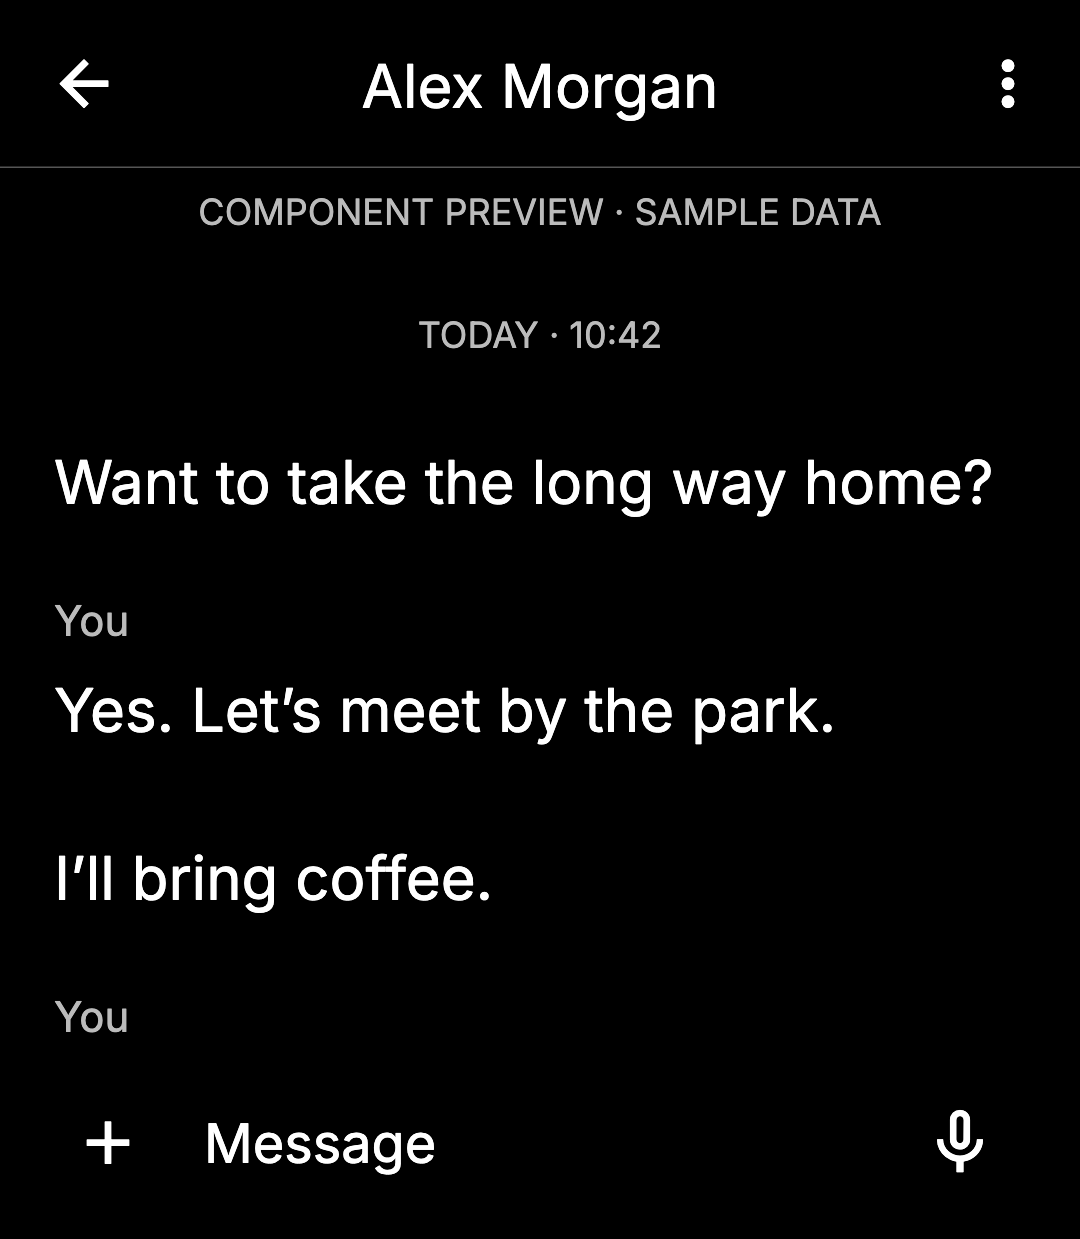
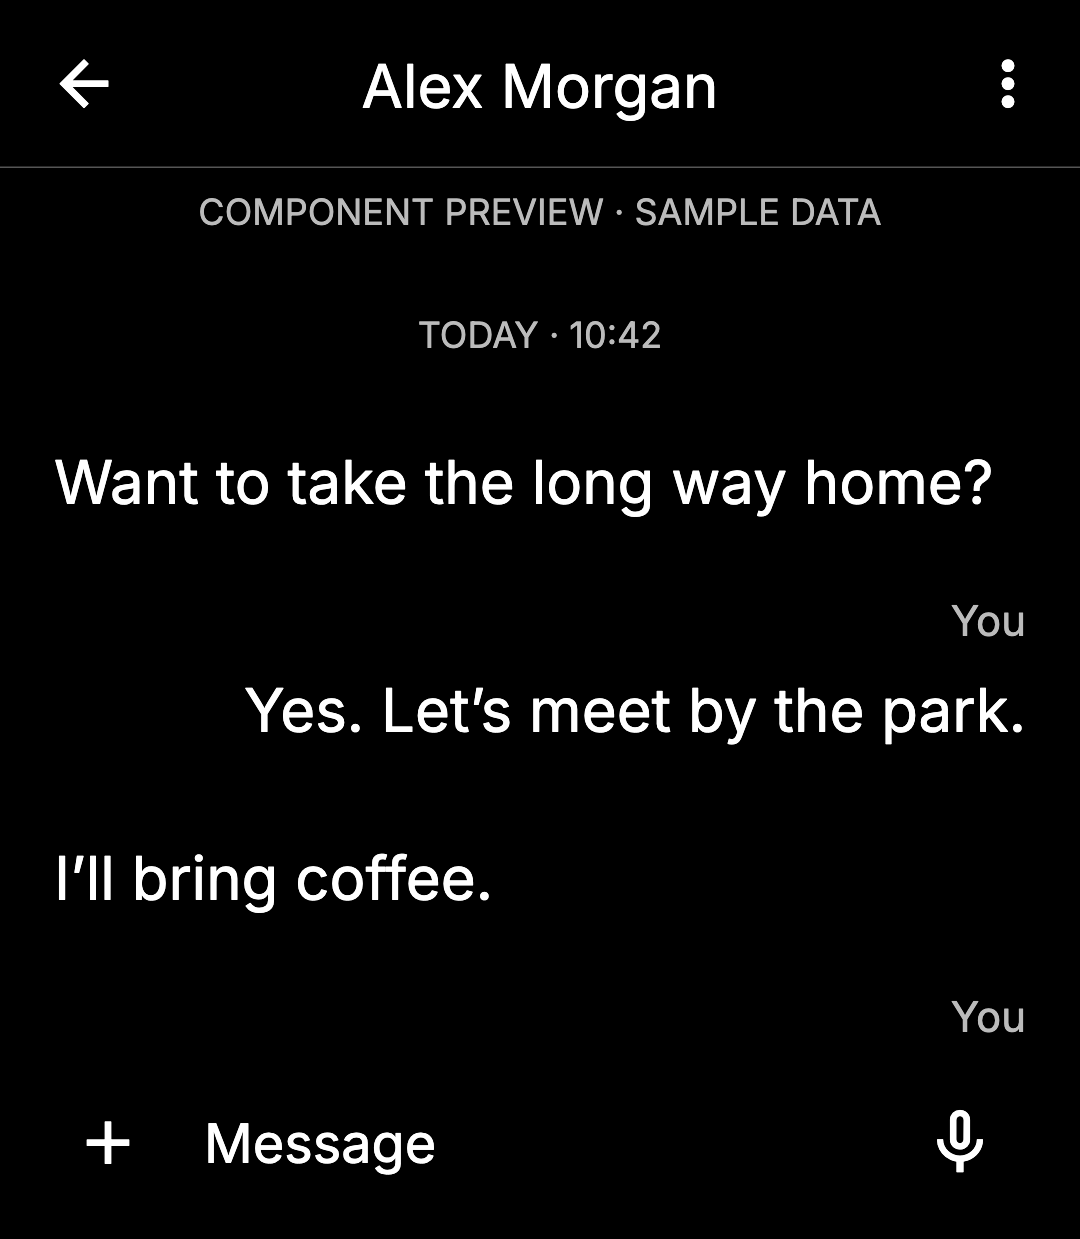
Right-align outgoing Light messages and captions

diff --git a/lib/app/layouts/conversation_view/widgets/message/message_holder.dart b/lib/app/layouts/conversation_view/widgets/message/message_holder.dart
@@ -229,14 +229,14 @@ class _MessageHolderState extends CustomState<MessageHolder, void, MessageWidget
               Expanded(
                 child: Column(
                   mainAxisSize: MainAxisSize.min,
-                  crossAxisAlignment: !isLight && message.isFromMe! ? CrossAxisAlignment.end : CrossAxisAlignment.start,
+                  crossAxisAlignment: message.isFromMe! ? CrossAxisAlignment.end : CrossAxisAlignment.start,
                   children: [
                     // message column
                     ...messageParts.mapIndexed((index, e) => Padding(
                       padding: const EdgeInsets.symmetric(vertical: 2.0),
                       child: Column(
                         mainAxisSize: MainAxisSize.min,
-                        crossAxisAlignment: !isLight && message.isFromMe! ? CrossAxisAlignment.end : CrossAxisAlignment.start,
+                        crossAxisAlignment: message.isFromMe! ? CrossAxisAlignment.end : CrossAxisAlignment.start,
                         children: [
                           // add previous edits if needed
                           if (e.isEdited)
@@ -250,7 +250,7 @@ class _MessageHolderState extends CustomState<MessageHolder, void, MessageWidget
                                 child: controller.showEdits.value ? Opacity(
                                   opacity: 0.75,
                                   child: Column(
-                                    crossAxisAlignment: !isLight && message.isFromMe! ? CrossAxisAlignment.end : CrossAxisAlignment.start,
+                                    crossAxisAlignment: message.isFromMe! ? CrossAxisAlignment.end : CrossAxisAlignment.start,
                                     mainAxisSize: MainAxisSize.min,
                                     children: e.edits.map((edit) => ClipPath(
                                       clipper: TailClipper(
@@ -313,7 +313,7 @@ class _MessageHolderState extends CustomState<MessageHolder, void, MessageWidget
                               child: MessageSender(olderMessage: olderMessage, message: message),
                             ),
                           // Plain messages give reactions their own row, so
-                          // badges cannot overlap text or escape the left gutter.
+                          // badges cannot overlap text or escape the gutters.
                           if ((messageParts.length == 1 && reactions.isNotEmpty) || reactionsForPart(e.part).isNotEmpty)
                             isLight
                                 ? Padding(
@@ -347,12 +347,15 @@ class _MessageHolderState extends CustomState<MessageHolder, void, MessageWidget
                                   ? const EdgeInsets.only(left: 45.0, right: 10) : const EdgeInsets.symmetric(horizontal: 10),
                               child: DecoratedBox(
                                 decoration: isLight
-                                    ? BoxDecoration(border: Border(left: BorderSide(color: context.theme.colorScheme.outlineVariant)))
+                                    ? BoxDecoration(border: message.isFromMe!
+                                        ? Border(right: BorderSide(color: context.theme.colorScheme.outlineVariant))
+                                        : Border(left: BorderSide(color: context.theme.colorScheme.outlineVariant)))
                                     : BoxDecoration(
                                         borderRadius: BorderRadius.circular(25),
                                         border: Border.fromBorderSide(BorderSide(color: context.theme.colorScheme.properSurface)),
                                       ),
                                 child: ReplyBubble(
+                                  textAlign: isLight ? (message.isFromMe! ? TextAlign.right : TextAlign.left) : TextAlign.start,
                                   parentController: getActiveMwc(replyTo!.guid!)!,
                                   part: replyTo!.guid! == message.threadOriginatorGuid ? message.normalizedThreadPart : 0,
                                   showAvatar: (chat.isGroup || (ss.settings.skin.value != Skins.Light && ss.settings.alwaysShowAvatars.value) || !iOS)
@@ -404,7 +407,7 @@ class _MessageHolderState extends CustomState<MessageHolder, void, MessageWidget
                                       ignoring: widget.cvController.inSelectMode.value,
                                       child: Container(
                                         width: double.infinity,
-                                        alignment: !isLight && message.isFromMe! ? Alignment.centerRight : Alignment.centerLeft,
+                                        alignment: message.isFromMe! ? Alignment.centerRight : Alignment.centerLeft,
                                         child: Row(
                                           mainAxisSize: MainAxisSize.min,
                                           children: [
@@ -424,7 +427,7 @@ class _MessageHolderState extends CustomState<MessageHolder, void, MessageWidget
                                             // otherwise show content
                                             if (!message.isGroupEvent && !e.isUnsent)
                                               lightMessageContent(Column(
-                                                crossAxisAlignment: !isLight && message.isFromMe! ? CrossAxisAlignment.end : CrossAxisAlignment.start,
+                                                crossAxisAlignment: message.isFromMe! ? CrossAxisAlignment.end : CrossAxisAlignment.start,
                                                 children: [
                                                   // interactive messages may have subjects, so render them here
                                                   // also render the subject for attachments that may have not rendered already
@@ -572,6 +575,7 @@ class _MessageHolderState extends CustomState<MessageHolder, void, MessageWidget
                                                                               child: CallbackShortcuts(
                                                                                 bindings: editStuff.item3.getShortcuts(),
                                                                                 child: TextField(
+                                                                                textAlign: isLight ? TextAlign.right : TextAlign.start,
                                                                                 textCapitalization: TextCapitalization.sentences,
                                                                                 autocorrect: true,
                                                                                 controller: editStuff.item3,

diff --git a/tool/light_preview/test/demo_voice_test.dart b/tool/light_preview/test/demo_voice_test.dart
@@ -2,9 +2,11 @@ import 'dart:async';
 import 'dart:typed_data';
 
 import 'package:flutter/material.dart';
+import 'package:flutter/rendering.dart';
 import 'package:flutter_test/flutter_test.dart';
 
 import '../../../lib/app/components/light/light_message_sender.dart';
+import '../../../lib/app/components/light/light_message_surface.dart';
 import '../../../lib/app/components/light/light_voice_note_controls.dart';
 import '../demo_app.dart';
 import '../voice/voice_capture.dart';
@@ -103,6 +105,11 @@ void main() {
     await tester.pumpAndSettle();
     expect(find.byTooltip('Record voice note'), findsOneWidget);
     expect(find.text('Voice note · 00:03'), findsOneWidget);
+    final voiceSurface = find.ancestor(
+        of: find.text('Voice note · 00:03'),
+        matching: find.byType(LightMessageSurface));
+    expect(tester.getRect(voiceSurface).right, closeTo(342, 0.01));
+    expect(tester.getRect(find.text('You').last).right, closeTo(342, 0.01));
     await tester.tap(find.byTooltip('Play voice note'));
     await tester.pumpAndSettle();
     expect(capture.plays, 2);
@@ -151,7 +158,7 @@ void main() {
   });
 
   testWidgets(
-      'group sender captions are separate and all message bodies align left',
+      'group sender captions stay with incoming left and sent right messages',
       (tester) async {
     tester.view.physicalSize = const Size(360, 800);
     tester.view.devicePixelRatio = 1;
@@ -165,12 +172,63 @@ void main() {
       final caption = tester.widget<Text>(find.text(name));
       expect(caption.style!.fontSize, 14);
     }
-    final incomingX = tester.getTopLeft(find.text('I can bring coffee.')).dx;
-    expect(tester.getTopLeft(find.text('I’ll bring the cups.')).dx, incomingX);
-    expect(tester.getTopLeft(find.text('See you both at nine.')).dx, incomingX);
+    expect(tester.getRect(find.text('I can bring coffee.')).left,
+        closeTo(18, 0.01));
+    expect(tester.getRect(find.text('I’ll bring the cups.')).left,
+        closeTo(18, 0.01));
+    expect(tester.getRect(find.text('Jamie')).left, closeTo(18, 0.01));
+    expect(tester.getRect(find.text('Morgan')).left, closeTo(18, 0.01));
+    expect(tester.getRect(find.text('See you both at nine.')).right,
+        closeTo(342, 0.01));
+    expect(tester.getRect(find.text('You')).right, closeTo(342, 0.01));
     expect(find.text('Jamie: I can bring coffee.'), findsNothing);
     expect(tester.takeException(), isNull);
   });
+
+  for (final thread in ['Alex Morgan', 'Saturday walk']) {
+    for (final scale in [1.0, 1.6]) {
+      testWidgets(
+          '$thread newly sent wrapped text and You caption align right at ${scale}x',
+          (tester) async {
+        tester.view.physicalSize = const Size(360, 800);
+        tester.view.devicePixelRatio = 1;
+        tester.platformDispatcher.textScaleFactorTestValue = scale;
+        addTearDown(tester.view.resetPhysicalSize);
+        addTearDown(tester.view.resetDevicePixelRatio);
+        addTearDown(tester.platformDispatcher.clearTextScaleFactorTestValue);
+        await tester.pumpWidget(LightDemoApp(voiceCapture: FakeVoiceCapture()));
+        await tester.tap(find.text(thread));
+        await tester.pumpAndSettle();
+        final incoming = thread == 'Alex Morgan'
+            ? 'Meet you at the trailhead.'
+            : 'I’ll bring the cups.';
+        expect(tester.getRect(find.text(incoming)).left, closeTo(18, 0.01));
+        const message =
+            'I will meet you by the park after work and bring the map for our walk. See you soon.';
+        await tester.enterText(
+            find.byKey(const ValueKey('demo-draft')), message);
+        await tester.pump();
+        await tester.tap(find.text('SEND'));
+        await tester.pumpAndSettle();
+        final paragraph =
+            tester.renderObject<RenderParagraph>(find.text(message));
+        final lines = paragraph.getBoxesForSelection(
+            const TextSelection(baseOffset: 0, extentOffset: message.length));
+        expect(lines.length, greaterThan(1));
+        expect(paragraph.textAlign, TextAlign.right);
+        expect(tester.getRect(find.text(message)).right, closeTo(342, 0.01));
+        expect(
+            paragraph
+                .localToGlobal(Offset(lines.last.right, lines.last.bottom))
+                .dx,
+            closeTo(342, 0.01));
+        expect(tester.getRect(find.text('You').last).right, closeTo(342, 0.01));
+        expect(tester.getBottomLeft(find.text('You').last).dy,
+            lessThan(tester.getTopLeft(find.text(message)).dy));
+        expect(tester.takeException(), isNull);
+      });
+    }
+  }
 
   testWidgets(
       'native Light voice controls retain compact reachable callbacks at 1.6x',

diff --git a/tool/light_preview/test/light_components_test.dart b/tool/light_preview/test/light_components_test.dart
@@ -160,7 +160,8 @@ void main() {
           await tester.pumpAndSettle();
           expect(tester.takeException(), isNull);
           expect(find.text('Message'), findsOneWidget);
-          expect(find.byTooltip('Record voice note').hitTestable(), findsOneWidget);
+          expect(find.byTooltip('Record voice note').hitTestable(),
+              findsOneWidget);
           await tester.scrollUntilVisible(find.text('Delivered'), 160);
           await tester.pumpAndSettle();
           expect(find.text('Delivered').hitTestable(), findsOneWidget);
@@ -221,7 +222,7 @@ void main() {
             LightMessageSender(name: 'Jamie'),
             LightMessageSurface(
                 isFromMe: false, child: Text('I can bring coffee.')),
-            LightMessageSender(name: 'You'),
+            LightMessageSender(name: 'You', isFromMe: true),
             LightMessageSurface(isFromMe: true, child: Text('See you soon.')),
           ]),
         ),
@@ -233,8 +234,16 @@ void main() {
       expect(caption.fontSize, lessThan(body.fontSize!));
       expect(tester.getBottomLeft(find.text('Jamie')).dy,
           lessThan(tester.getTopLeft(find.text('I can bring coffee.')).dy));
-      expect(tester.getTopLeft(find.text('I can bring coffee.')).dx,
-          tester.getTopLeft(find.text('See you soon.')).dx);
+      expect(tester.getBottomLeft(find.text('You')).dy,
+          lessThan(tester.getTopLeft(find.text('See you soon.')).dy));
+      expect(
+          DefaultTextStyle.of(tester.element(find.text('I can bring coffee.')))
+              .textAlign,
+          TextAlign.left);
+      expect(
+          DefaultTextStyle.of(tester.element(find.text('See you soon.')))
+              .textAlign,
+          TextAlign.right);
       expect(
           contrast(
               caption.color!,

diff --git a/tool/light_preview/demo_app.dart b/tool/light_preview/demo_app.dart
@@ -534,15 +534,19 @@ class _DemoHomeState extends State<_DemoHome> {
                                         padding:
                                             const EdgeInsets.only(bottom: 18),
                                         child: Align(
-                                          alignment: Alignment.centerLeft,
+                                          alignment: message.fromMe
+                                              ? Alignment.centerRight
+                                              : Alignment.centerLeft,
                                           child: Column(
                                             mainAxisSize: MainAxisSize.min,
-                                            crossAxisAlignment:
-                                                CrossAxisAlignment.start,
+                                            crossAxisAlignment: message.fromMe
+                                                ? CrossAxisAlignment.end
+                                                : CrossAxisAlignment.start,
                                             children: [
                                               if (thread.isGroup ||
                                                   message.fromMe)
                                                 LightMessageSender(
+                                                    isFromMe: message.fromMe,
                                                     name: message.fromMe
                                                         ? 'You'
                                                         : message.sender ??

diff --git a/tool/light_preview/test/preview_app.dart b/tool/light_preview/test/preview_app.dart
@@ -145,13 +145,15 @@ class _FixtureConversation extends StatelessWidget {
   @override
   Widget build(BuildContext context) {
     Widget message(String text, {required bool fromMe}) => Align(
-          alignment: Alignment.centerLeft,
+          alignment: fromMe ? Alignment.centerRight : Alignment.centerLeft,
           child: Padding(
             padding: const EdgeInsets.only(bottom: 18),
             child: Column(
-              crossAxisAlignment: CrossAxisAlignment.start,
+              crossAxisAlignment:
+                  fromMe ? CrossAxisAlignment.end : CrossAxisAlignment.start,
               children: [
-                if (fromMe) const LightMessageSender(name: 'You'),
+                if (fromMe)
+                  const LightMessageSender(name: 'You', isFromMe: true),
                 LightMessageSurface(
                   isFromMe: fromMe,
                   constraints: const BoxConstraints(maxWidth: 324),
@@ -200,7 +202,7 @@ class _FixtureConversation extends StatelessWidget {
                 message('I’ll bring coffee.', fromMe: false),
                 message('Perfect. See you soon.', fromMe: true),
                 Align(
-                  alignment: Alignment.centerLeft,
+                  alignment: Alignment.centerRight,
                   child: Text('Delivered',
                       style: Theme.of(context).textTheme.labelSmall),
                 ),

diff --git a/lib/app/layouts/conversation_view/widgets/message/text/text_bubble.dart b/lib/app/layouts/conversation_view/widgets/message/text/text_bubble.dart
@@ -181,6 +181,7 @@ class _TextBubbleState extends CustomState<TextBubble, void, MessageWidgetContro
                     );
                   },
                   child: RichText(
+                    textAlign: isLight ? (message.isFromMe! ? TextAlign.right : TextAlign.left) : TextAlign.start,
                     textScaler: ss.settings.skin.value == Skins.Light ? MediaQuery.textScalerOf(context) : TextScaler.noScaling,
                     text: TextSpan(
                       children: snapshot.data!,
@@ -193,6 +194,7 @@ class _TextBubbleState extends CustomState<TextBubble, void, MessageWidgetContro
                 child: Padding(
                   padding: message.fullText.length == 1 ? const EdgeInsets.only(left: 3, right: 3) : EdgeInsets.zero,
                   child: RichText(
+                    textAlign: isLight ? (message.isFromMe! ? TextAlign.right : TextAlign.left) : TextAlign.start,
                     textScaler: ss.settings.skin.value == Skins.Light ? MediaQuery.textScalerOf(context) : TextScaler.noScaling,
                     text: TextSpan(
                       children: snapshot.data!,

diff --git a/lib/app/components/light/light_message_sender.dart b/lib/app/components/light/light_message_sender.dart
@@ -2,9 +2,14 @@ import 'package:flutter/material.dart';
 
 /// A quiet sender caption above a plain-text message or voice note.
 class LightMessageSender extends StatelessWidget {
-  const LightMessageSender({super.key, required this.name});
+  const LightMessageSender({
+    super.key,
+    required this.name,
+    this.isFromMe = false,
+  });
 
   final String name;
+  final bool isFromMe;
 
   @override
   Widget build(BuildContext context) {
@@ -13,6 +18,7 @@ class LightMessageSender extends StatelessWidget {
       padding: const EdgeInsets.only(bottom: 2),
       child: Text(
         name,
+        textAlign: isFromMe ? TextAlign.right : TextAlign.left,
         style: theme.textTheme.labelMedium!.copyWith(
           color: theme.colorScheme.onSurfaceVariant,
           fontWeight: FontWeight.w400,

diff --git a/lib/app/layouts/conversation_view/widgets/message/reply/reply_bubble.dart b/lib/app/layouts/conversation_view/widgets/message/reply/reply_bubble.dart
@@ -18,11 +18,13 @@ class ReplyBubble extends CustomStateful<MessageWidgetController> {
     required this.part,
     required this.showAvatar,
     required this.cvController,
+    this.textAlign = TextAlign.start,
   });
 
   final int part;
   final bool showAvatar;
   final ConversationViewController cvController;
+  final TextAlign textAlign;
 
   @override
   CustomState createState() => _ReplyBubbleState();
@@ -83,6 +85,7 @@ class _ReplyBubbleState extends CustomState<ReplyBubble, void, MessageWidgetCont
                   ),
                 ]),
                 style: context.textTheme.labelLarge!.copyWith(color: context.theme.colorScheme.onBackground),
+                textAlign: widget.textAlign,
                 maxLines: 2,
                 overflow: TextOverflow.ellipsis,
               ),

diff --git a/lib/app/components/light/light_message_surface.dart b/lib/app/components/light/light_message_surface.dart
@@ -1,7 +1,7 @@
 import 'package:flutter/material.dart';
 
 /// Plain message text shared by the live transcript and preview.
-/// Sender captions identify direction; only selection adds a background.
+/// Text follows message direction; only selection adds a background.
 class LightMessageSurface extends StatelessWidget {
   const LightMessageSurface({
     super.key,
@@ -32,6 +32,7 @@ class LightMessageSurface extends StatelessWidget {
       ),
       child: DefaultTextStyle(
         style: theme.textTheme.bodyLarge!.copyWith(color: foreground),
+        textAlign: isFromMe ? TextAlign.right : TextAlign.left,
         child: child,
       ),
     );

diff --git a/lib/app/layouts/conversation_view/widgets/message/misc/message_properties.dart b/lib/app/layouts/conversation_view/widgets/message/misc/message_properties.dart
@@ -138,6 +138,7 @@ class _MessagePropertiesState extends CustomState<MessageProperties, void, Messa
             children: intersperse(const TextSpan(text: " • "), props).toList(),
           ),
           style: context.theme.textTheme.labelSmall!.copyWith(color: context.theme.colorScheme.primary, fontWeight: FontWeight.bold),
+          textAlign: ss.settings.skin.value == Skins.Light ? (message.isFromMe! ? TextAlign.right : TextAlign.left) : TextAlign.start,
         ),
       ) : const SizedBox.shrink(),
     );

diff --git a/lib/app/layouts/conversation_view/widgets/message/timestamp/delivered_indicator.dart b/lib/app/layouts/conversation_view/widgets/message/timestamp/delivered_indicator.dart
@@ -108,7 +108,7 @@ class _DeliveredIndicatorState extends CustomState<DeliveredIndicator, void, Mes
         ),
         child: Text.rich(TextSpan(
           children: getText(),
-        )),
+        ), textAlign: ss.settings.skin.value == Skins.Light ? (message.isFromMe! ? TextAlign.right : TextAlign.left) : TextAlign.start),
       ) : const SizedBox.shrink()),
     );
   }

diff --git a/lib/app/layouts/conversation_view/widgets/message/misc/message_sender.dart b/lib/app/layouts/conversation_view/widgets/message/misc/message_sender.dart
@@ -17,6 +17,7 @@ class MessageSender extends StatelessWidget {
     if (ss.settings.skin.value == Skins.Light) {
       final name = message.handle?.displayName.trim();
       return LightMessageSender(
+        isFromMe: message.isFromMe == true,
         name: message.isFromMe == true
             ? 'You'
             : name == null || name.isEmpty
